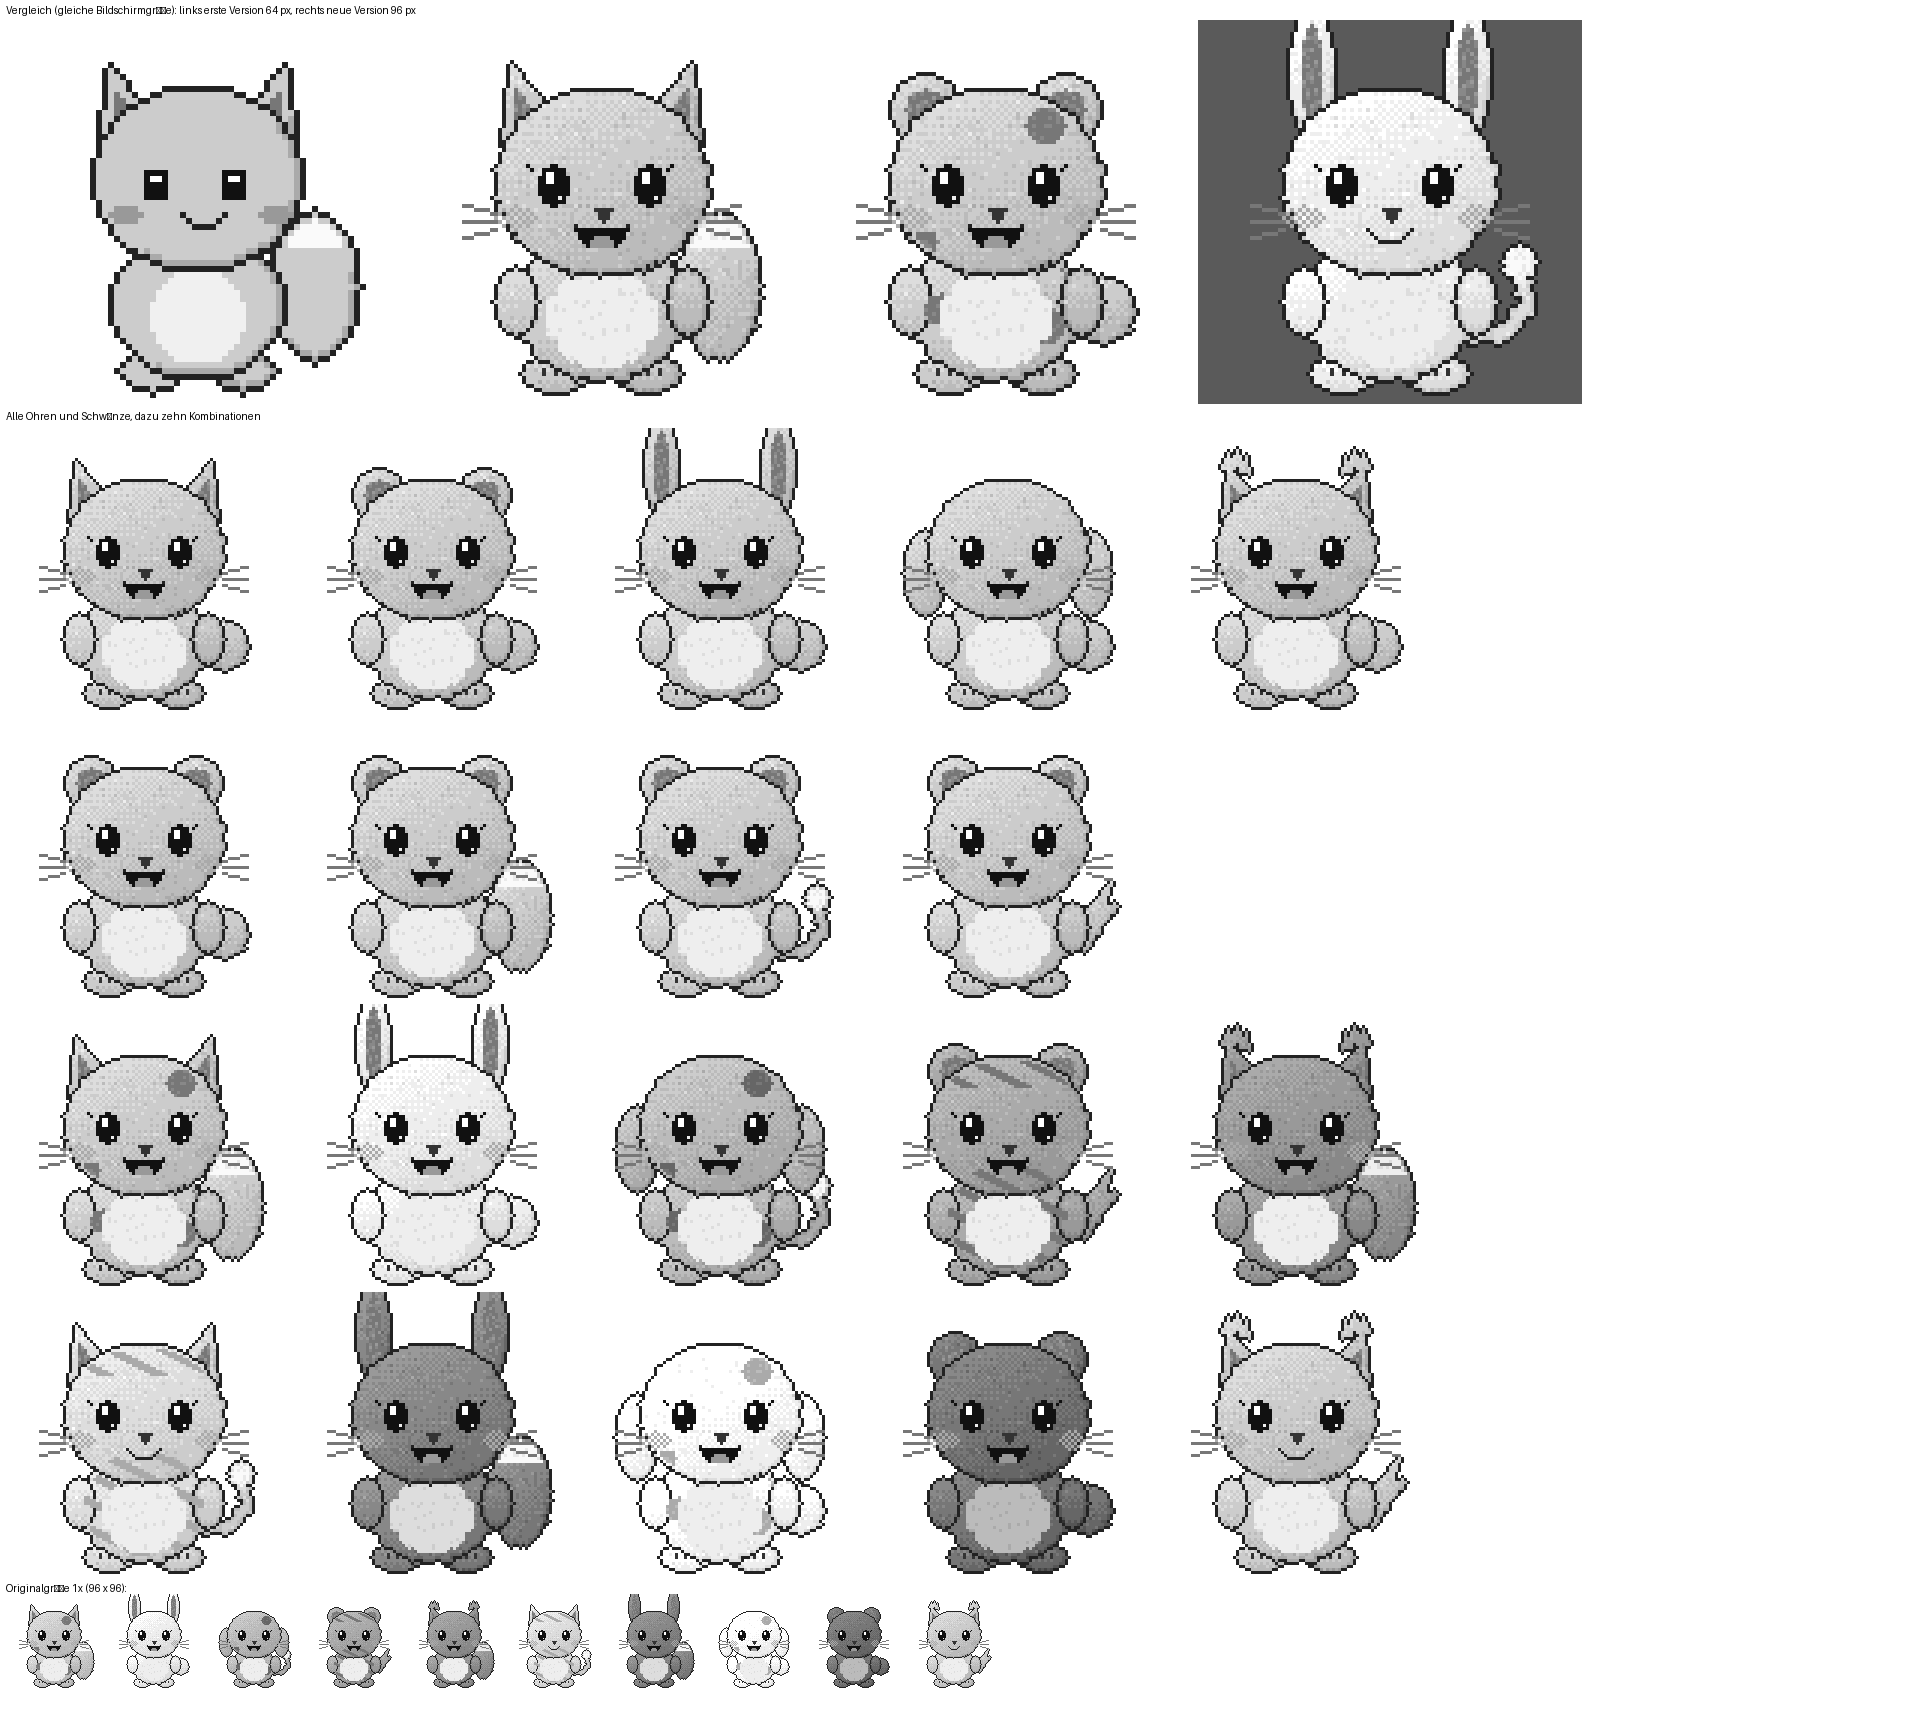
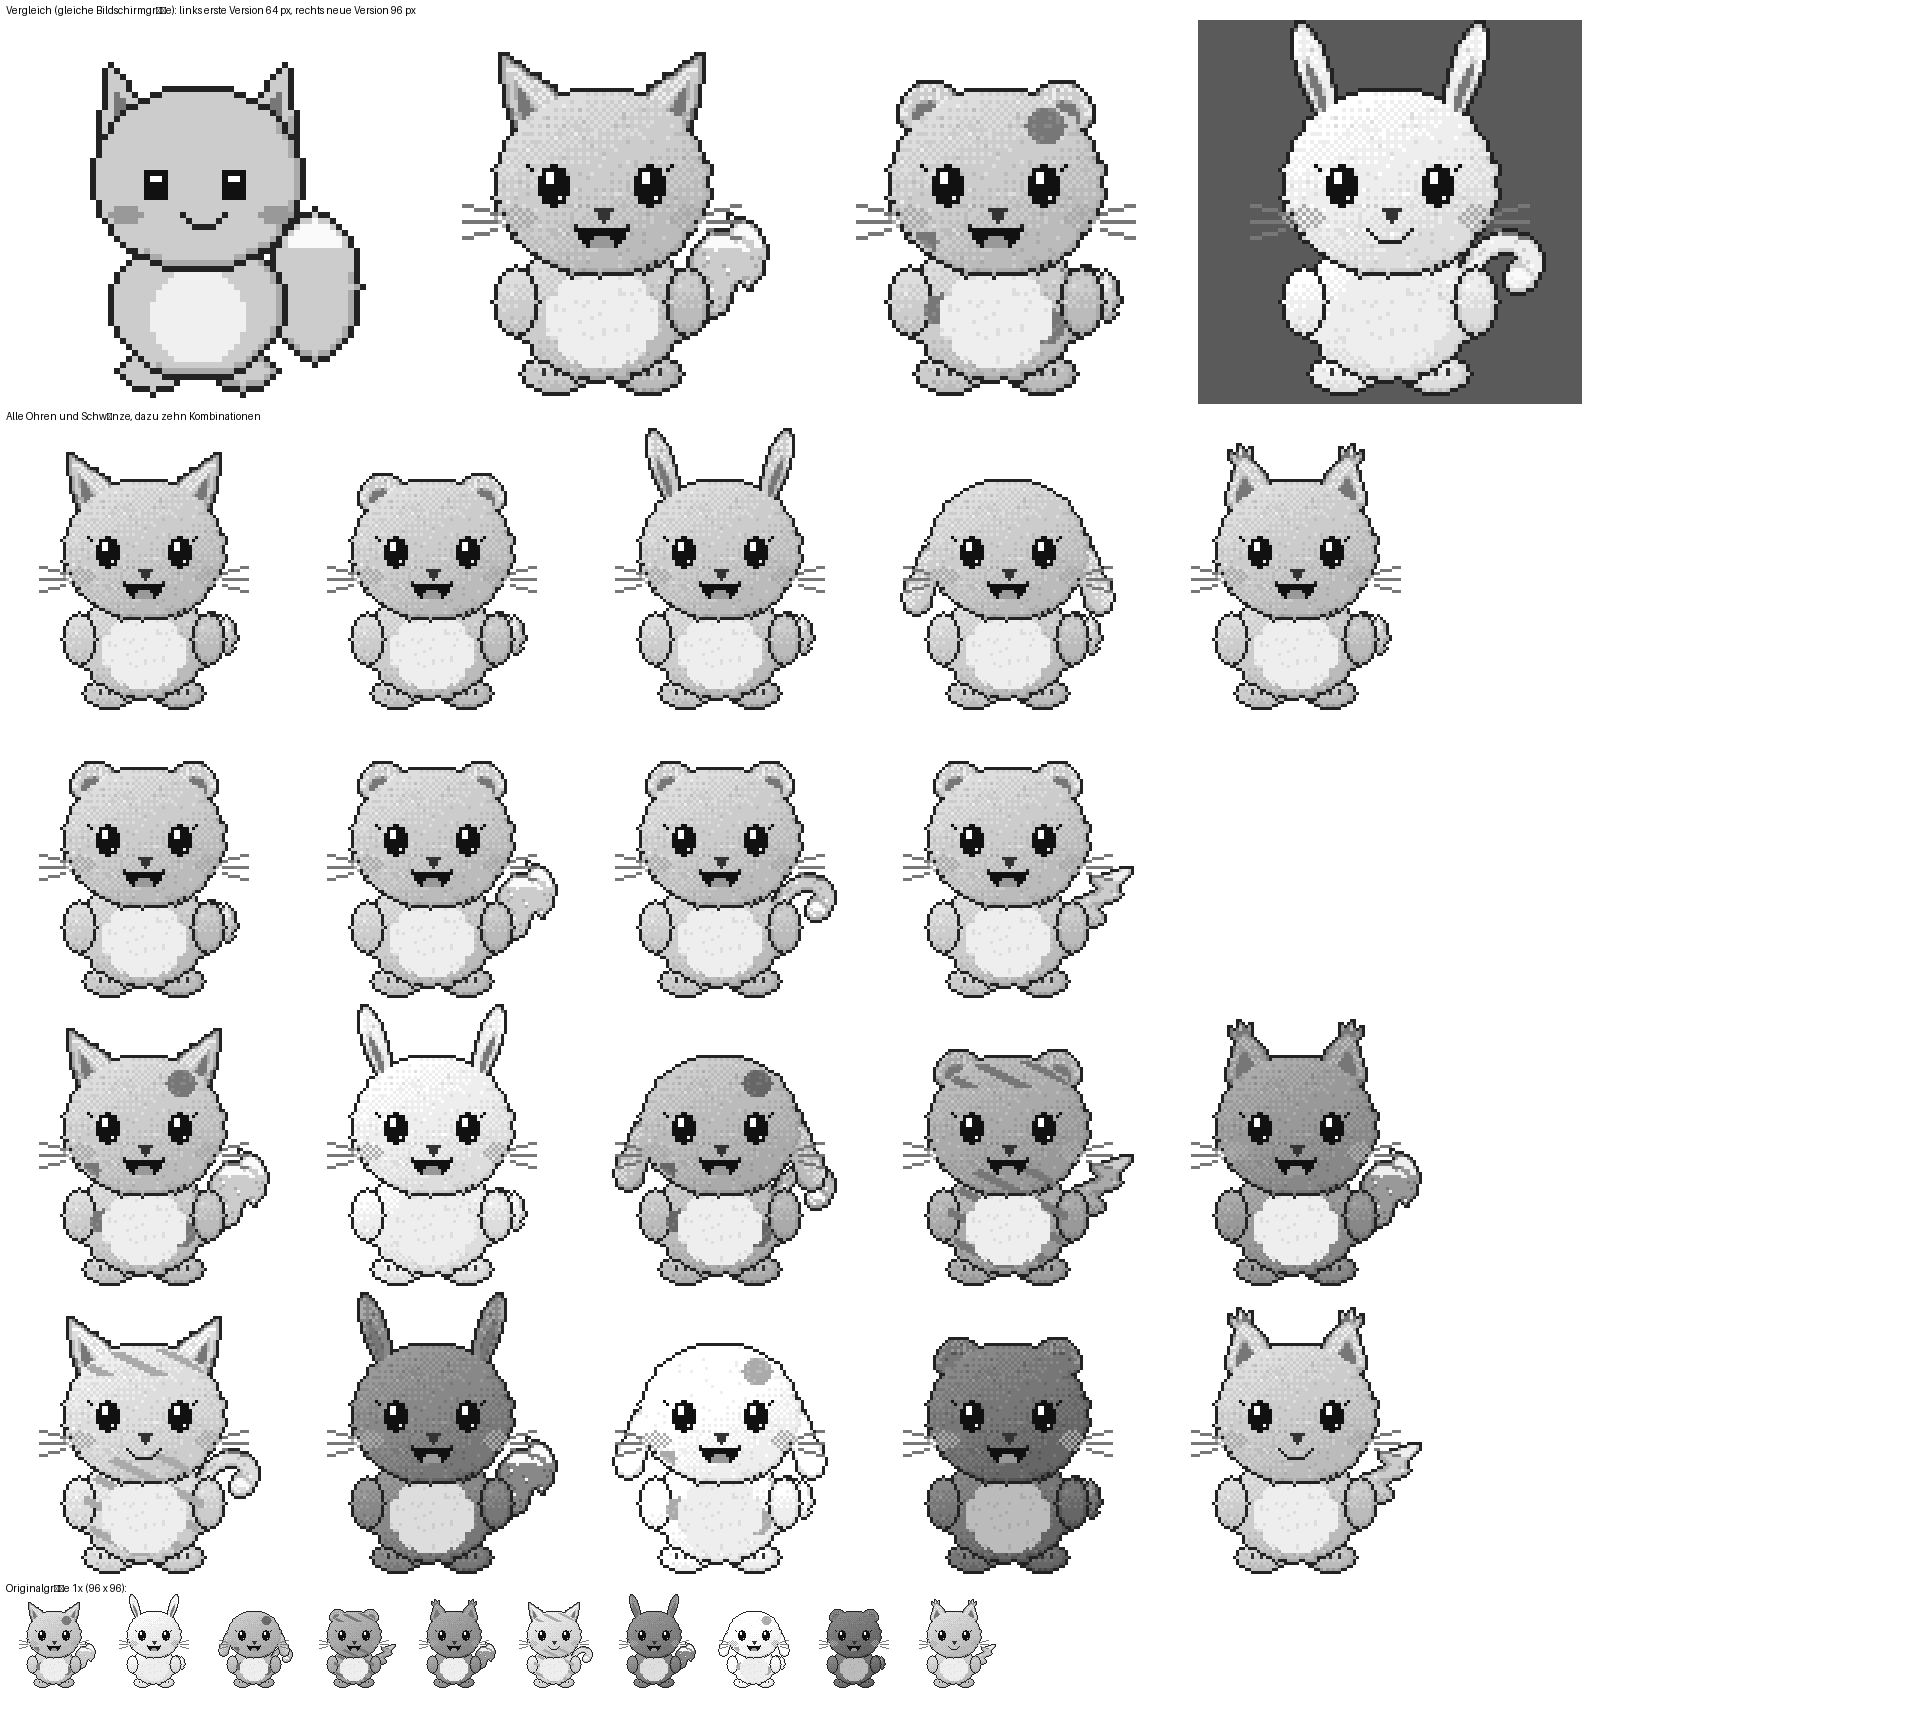
Freistehende KI-Teile in den Bausatz-Test integrieren

diff --git a/entwuerfe/bausatz-test/bausatz2.py b/entwuerfe/bausatz-test/bausatz2.py
@@ -11,6 +11,8 @@ import numpy as np
 from PIL import Image, ImageDraw
 import os
 
+from ki_teile import lade_teil
+
 W = H = 96
 CX = 47.5
 LINIE = 34
@@ -48,9 +50,10 @@ class Bild:
         self.g = np.zeros((H, W), np.uint8); self.a = np.zeros((H, W), bool)
     def setze(self, m, v):
         self.g[m] = np.clip(v, 0, 255) if np.ndim(v) == 0 else np.clip(v, 0, 255)[m]; self.a[m] = True
-    def fell(self, maske, fuell, tuften=True, salz=1, punkte=True, schatten=True):
+    def fell(self, maske, fuell, tuften=True, salz=1, punkte=True, schatten=True, naht=None):
         m = flauschig(maske, salz=salz) if tuften else maske
-        self.setze(umriss(m), LINIE)
+        rand = umriss(m)
+        self.setze(rand if naht is None else rand & ~naht, LINIE)
         ys, xs = np.nonzero(m)
         cy, cx = (ys.min() + ys.max()) / 2, (xs.min() + xs.max()) / 2
         hy, hx = max(1, (ys.max() - ys.min()) / 2), max(1, (xs.max() - xs.min()) / 2)
@@ -67,6 +70,30 @@ class Bild:
         v = np.where(innen & ((X - cx) + (Y - cy) > 4), v - 17, v)
         self.setze(m, np.round(v / 17) * 17)
         return m
+    def ki_teil(self, teil, ziel, fell, innen, gespiegelt=False, licht=None):
+        raster, (ax, ay) = teil
+        gx, gy = ziel
+        rollen = {
+            34: LINIE,
+            119: innen,
+            170: fell - 34,
+            204: fell,
+            238: fell + 34 if licht is None else licht,
+        }
+        fuellung = leer()
+        for rolle, ton in rollen.items():
+            y, x = np.nonzero(raster == rolle)
+            x, y = x - ax + gx, y - ay + gy
+            if gespiegelt:
+                x = W - 1 - x
+            sichtbar = (x >= 0) & (x < W) & (y >= 0) & (y < H)
+            maske = leer()
+            maske[y[sichtbar], x[sichtbar]] = True
+            self.setze(maske, ton)
+            if rolle != LINIE:
+                fuellung |= maske
+        return fuellung
+
     def bild(self, hg=255, z=4):
         a = np.full((H, W, 3), hg, np.uint8); a[self.a] = np.stack([self.g[self.a]] * 3, 1)
         return Image.fromarray(a).resize((W * z, H * z), Image.NEAREST)
@@ -106,35 +133,47 @@ def tiere(ohren='spitz', schw='puschel', f=204, bauch=238, spitze=250, innen=119
     kopf = ellipse(CX, 40, 26, 23); koerper = ellipse(CX, 71, 21, 18)
     arme = ellipse(26, 70, 5, 8) | ellipse(69, 70, 5, 8)
     fuesse = ellipse(36, 88, 8, 4.5) | ellipse(59, 88, 8, 4.5)
-    sm, sp = schwanz(schw)
-    if sm is not None:
-        m = b.fell(sm, f, salz=21)
-        if sp.any():
-            t = sp & erode(m); b.setze(t, np.where(rauschen(9) < 14, spitze - 17, spitze))
-    o = ohr(ohren)
-    if o is not None:
-        for sx in (False, True):
-            a, i = o
-            a = spiegel(a) if sx else a; i = spiegel(i) if sx else i
-            m = b.fell(a, f, tuften=False, salz=31 + sx)
-            if i.any():
-                ii = i & erode(m)
-                b.setze(ii, np.where(rauschen(13) < 25, innen + 17, innen))
-                # Innenohrfell: helle Strichel
-                b.setze(ii & (((X + 2 * Y) % 7) == 0), innen + 34)
+    schwanznaht = ohrnaht = None
+    schwanzteil = lade_teil('schwanz', schw)
+    if schwanzteil is not None:
+        licht = spitze if schw in ('buschig', 'duenn') else None
+        schwanznaht = b.ki_teil(schwanzteil, ANKER['schwanz'], f, innen, licht=licht)
+    else:
+        sm, sp = schwanz(schw)
+        if sm is not None:
+            m = b.fell(sm, f, salz=21)
+            if sp.any():
+                t = sp & erode(m); b.setze(t, np.where(rauschen(9) < 14, spitze - 17, spitze))
+    ohrteil = lade_teil('ohr', ohren)
+    if ohrteil is not None:
+        ziel = ANKER['ohr-seite' if ohren == 'haengend' else 'ohr']
+        ohrnaht = b.ki_teil(ohrteil, ziel, f, innen)
+        ohrnaht |= b.ki_teil(ohrteil, ziel, f, innen, gespiegelt=True)
+    else:
+        o = ohr(ohren)
+        if o is not None:
+            for sx in (False, True):
+                a, i = o
+                a = spiegel(a) if sx else a; i = spiegel(i) if sx else i
+                m = b.fell(a, f, tuften=False, salz=31 + sx)
+                if i.any():
+                    ii = i & erode(m)
+                    b.setze(ii, np.where(rauschen(13) < 25, innen + 17, innen))
+                    # Innenohrfell: helle Strichel
+                    b.setze(ii & (((X + 2 * Y) % 7) == 0), innen + 34)
     b.fell(fuesse, f, tuften=False, salz=41)
     # Zehen
     for fx in (36, 59):
         for dx in (-3, 0, 3):
             b.setze((X == fx + dx) & (Y >= 87) & (Y <= 88), LINIE + 17)
-    b.fell(koerper, f, salz=51)
+    b.fell(koerper, f, salz=51, naht=schwanznaht)
     # Bauch mit Zackenrand (wie Evis Halskrause)
     zack = 1.0 + 0.10 * np.abs(np.sin((X - CX) * 0.55))
     bm = ((((X - CX) / (13 * zack)) ** 2 + ((Y - 74) / (12 * zack)) ** 2) <= 1) & koerper & (Y > 62)
     bi = bm & erode(koerper)
     b.setze(bi, np.where(rauschen(17) < 8, bauch - 17, bauch))
     b.fell(arme, f, tuften=False, salz=61)
-    b.fell(kopf, f, salz=71)
+    b.fell(kopf, f, salz=71, naht=ohrnaht)
     # Muster
     if muster == 'flecken':
         mm = leer()

diff --git a/entwuerfe/bausatz-test/ki_teile.py b/entwuerfe/bausatz-test/ki_teile.py
@@ -1,0 +1,49 @@
+"""Lädt freistehende Graustufen-Teile aus ki/teile."""
+from functools import lru_cache
+from pathlib import Path
+
+import numpy as np
+from PIL import Image
+
+ORDNER = Path(__file__).resolve().parent / 'ki' / 'teile'
+RASTER = 8
+ROLLEN = (34, 119, 170, 204, 238, 255)
+SCHABLONEN = {
+    'ohr': ((24, 32), (12, 29)),
+    'ohr-haengend': ((24, 32), (12, 2)),
+    'schwanz': ((32, 40), (3, 29)),
+}
+
+
+@lru_cache(maxsize=None)
+def lade_teil(art, name):
+    dateien = sorted(ORDNER.glob(f'{art}-{name}-[123].png'))
+    if not dateien:
+        return None
+    datei = dateien[0]
+    (breite, hoehe), (ax, ay) = SCHABLONEN.get(f'{art}-{name}', SCHABLONEN[art])
+    with Image.open(datei) as bild:
+        if bild.size != (breite * RASTER, hoehe * RASTER):
+            raise ValueError(f'{datei.name}: falsche Bildgröße {bild.size}')
+        pixel = np.asarray(bild.convert('RGBA'))
+    raster = pixel[::RASTER, ::RASTER, 0].copy()
+    if np.any(pixel[..., 3] != 255) or not np.all(np.isin(raster, ROLLEN)):
+        raise ValueError(f'{datei.name}: unerlaubte Graustufe oder Transparenz')
+    erwartet = raster.repeat(RASTER, axis=0).repeat(RASTER, axis=1)
+    if not np.all(pixel[..., :3] == erwartet[..., None]):
+        raise ValueError(f'{datei.name}: Farbabweichung oder unsauberes 8×8-Raster')
+    if raster[ay, ax] == 255:
+        raise ValueError(f'{datei.name}: Ansatzpunkt liegt außerhalb des Teils')
+
+    # Nur die mit dem Ansatz verbundene Form übernehmen.
+    verbunden = np.zeros(raster.shape, dtype=bool)
+    offen = [(ax, ay)]
+    verbunden[ay, ax] = True
+    while offen:
+        x, y = offen.pop()
+        for nx, ny in ((x - 1, y), (x + 1, y), (x, y - 1), (x, y + 1)):
+            if 0 <= nx < breite and 0 <= ny < hoehe and not verbunden[ny, nx] and raster[ny, nx] != 255:
+                verbunden[ny, nx] = True
+                offen.append((nx, ny))
+    raster[~verbunden] = 255
+    return raster, (ax, ay)

diff --git a/entwuerfe/bausatz-test/schablonen.py b/entwuerfe/bausatz-test/schablonen.py
@@ -19,6 +19,7 @@ def schablone(name, gw, gh, anker, text):
     im.save(os.path.join(hier, 'ki', name))
 # Ohr: 24 x 32 Rasterpixel, Ansatz = unten Mitte; Schwanz: 32 x 40, Ansatz = links Mitte
 schablone('schablone-ohr.png', 24, 32, (12, 29), 'Ohr 24x32, roter Punkt = Ansatz')
+schablone('schablone-ohr-haengend.png', 24, 32, (12, 2), 'Hängeohr 24x32, roter Punkt = Ansatz')
 schablone('schablone-schwanz.png', 32, 40, (3, 29), 'Schwanz 32x40, roter Punkt = Ansatz')
 # Stilvorlage: Ausschnitt der neuen Basis (Kopf mit Ohr, Schwanz) auf 8x
 import bausatz2 as b

diff --git a/entwuerfe/bausatz-test/PROMPT-ki-teile.md b/entwuerfe/bausatz-test/PROMPT-ki-teile.md
@@ -6,13 +6,14 @@ Stand 27. November 2026. Gilt für den **Bausatz** (`bausatz2.py`), nicht für d
 Die KI soll **ein Teil allein** zeichnen (Ohr, Schwanz, später Flügel, Hörner, Gesichter), **nicht in ein fertiges Bild hinein**. Dann muss sie kein Raster, keinen Kopfrand und keine Figur treffen. Mein Skript setzt das Teil an den Ansatzpunkt, rechnet das Fell auf jeden Fellton um und verschmilzt den Umriss. Damit das klappt, braucht jedes Bild **feste Maße und feste Grauwerte**. Dieser Prompt ist deshalb eine Vorlage, die für jedes weitere Teil gleich bleibt: nur die Zeile `[TEIL]` wechselt.
 
 ## Anhängen (bei jedem Auftrag)
-1. **Schablone**: `ki/schablone-ohr.png` (Ohren, Hörner …) oder `ki/schablone-schwanz.png` (Schwänze, Flügel …). Sie ist die Zeichenfläche: Raster 8 × 8 Pixel je Rasterpixel, roter Punkt = Ansatz.
+1. **Schablone**: `ki/schablone-ohr.png` (Ohren, Hörner …), `ki/schablone-ohr-haengend.png` (Hängeohren) oder `ki/schablone-schwanz.png` (Schwänze, Flügel …). Sie ist die Zeichenfläche: Raster 8 × 8 Pixel je Rasterpixel, roter Punkt = Ansatz.
 2. **Stilvorlage**: `ki/stilvorlage-kopf.png` bzw. `ki/stilvorlage-schwanz.png` (so sieht ein fertiges Teil in unserem Stil aus: Umriss, Verlauf, Fellpunkte).
 
 ## Maße (immer gleich)
 | Teil | Raster | Ausgabegröße (8-fach) | Ansatz (roter Punkt) |
 |---|---|---|---|
 | Ohr (linkes Ohr, nach oben) | 24 × 32 | 192 × 256 | unten Mitte (12, 29) |
+| Hängeohr (linkes Ohr, nach unten) | 24 × 32 | 192 × 256 | oben Mitte (12, 2) |
 | Schwanz (nach rechts) | 32 × 40 | 256 × 320 | links Mitte (3, 29) |
 
 ## Grauwerte (Rollen, immer gleich)

diff --git a/entwuerfe/bausatz-test/README.md b/entwuerfe/bausatz-test/README.md
@@ -11,3 +11,7 @@ Kleiner Versuch, ob Ohren, Schwänze und Fell **per Skript** statt per Bild-KI e
 ## Version 2 (größer, mit Details)
 `bausatz2.py` → `pruefbogen-test2.png`: 96 × 96 Pixel, Fellpunkte, gerasterte Verläufe, flauschiger Rand, Augen mit Glanzpunkten, Mund mit Zunge, Schnurrhaare, Bauchfell, Zehen, Ohrinnenfell.
 `schablonen.py` erzeugt die Schablonen für die Bild-KI. Prompt: [PROMPT-ki-teile.md](PROMPT-ki-teile.md).
+
+## Freistehende KI-Teile
+
+In [ki/teile](ki/teile) liegt je Ohr- und Schwanzform die ausgewählte von drei Varianten. `python3 bausatz2.py` lädt die PNGs anhand von Form und Varianten-Nummer und erstellt den [Prüfbogen](pruefbogen-test2.png). Weiße Pixel sind beim Zusammensetzen durchsichtig. Das rechte Ohr wird aus dem linken gespiegelt. Fehlt ein Teil, verwendet das Skript die bisherige Form.
